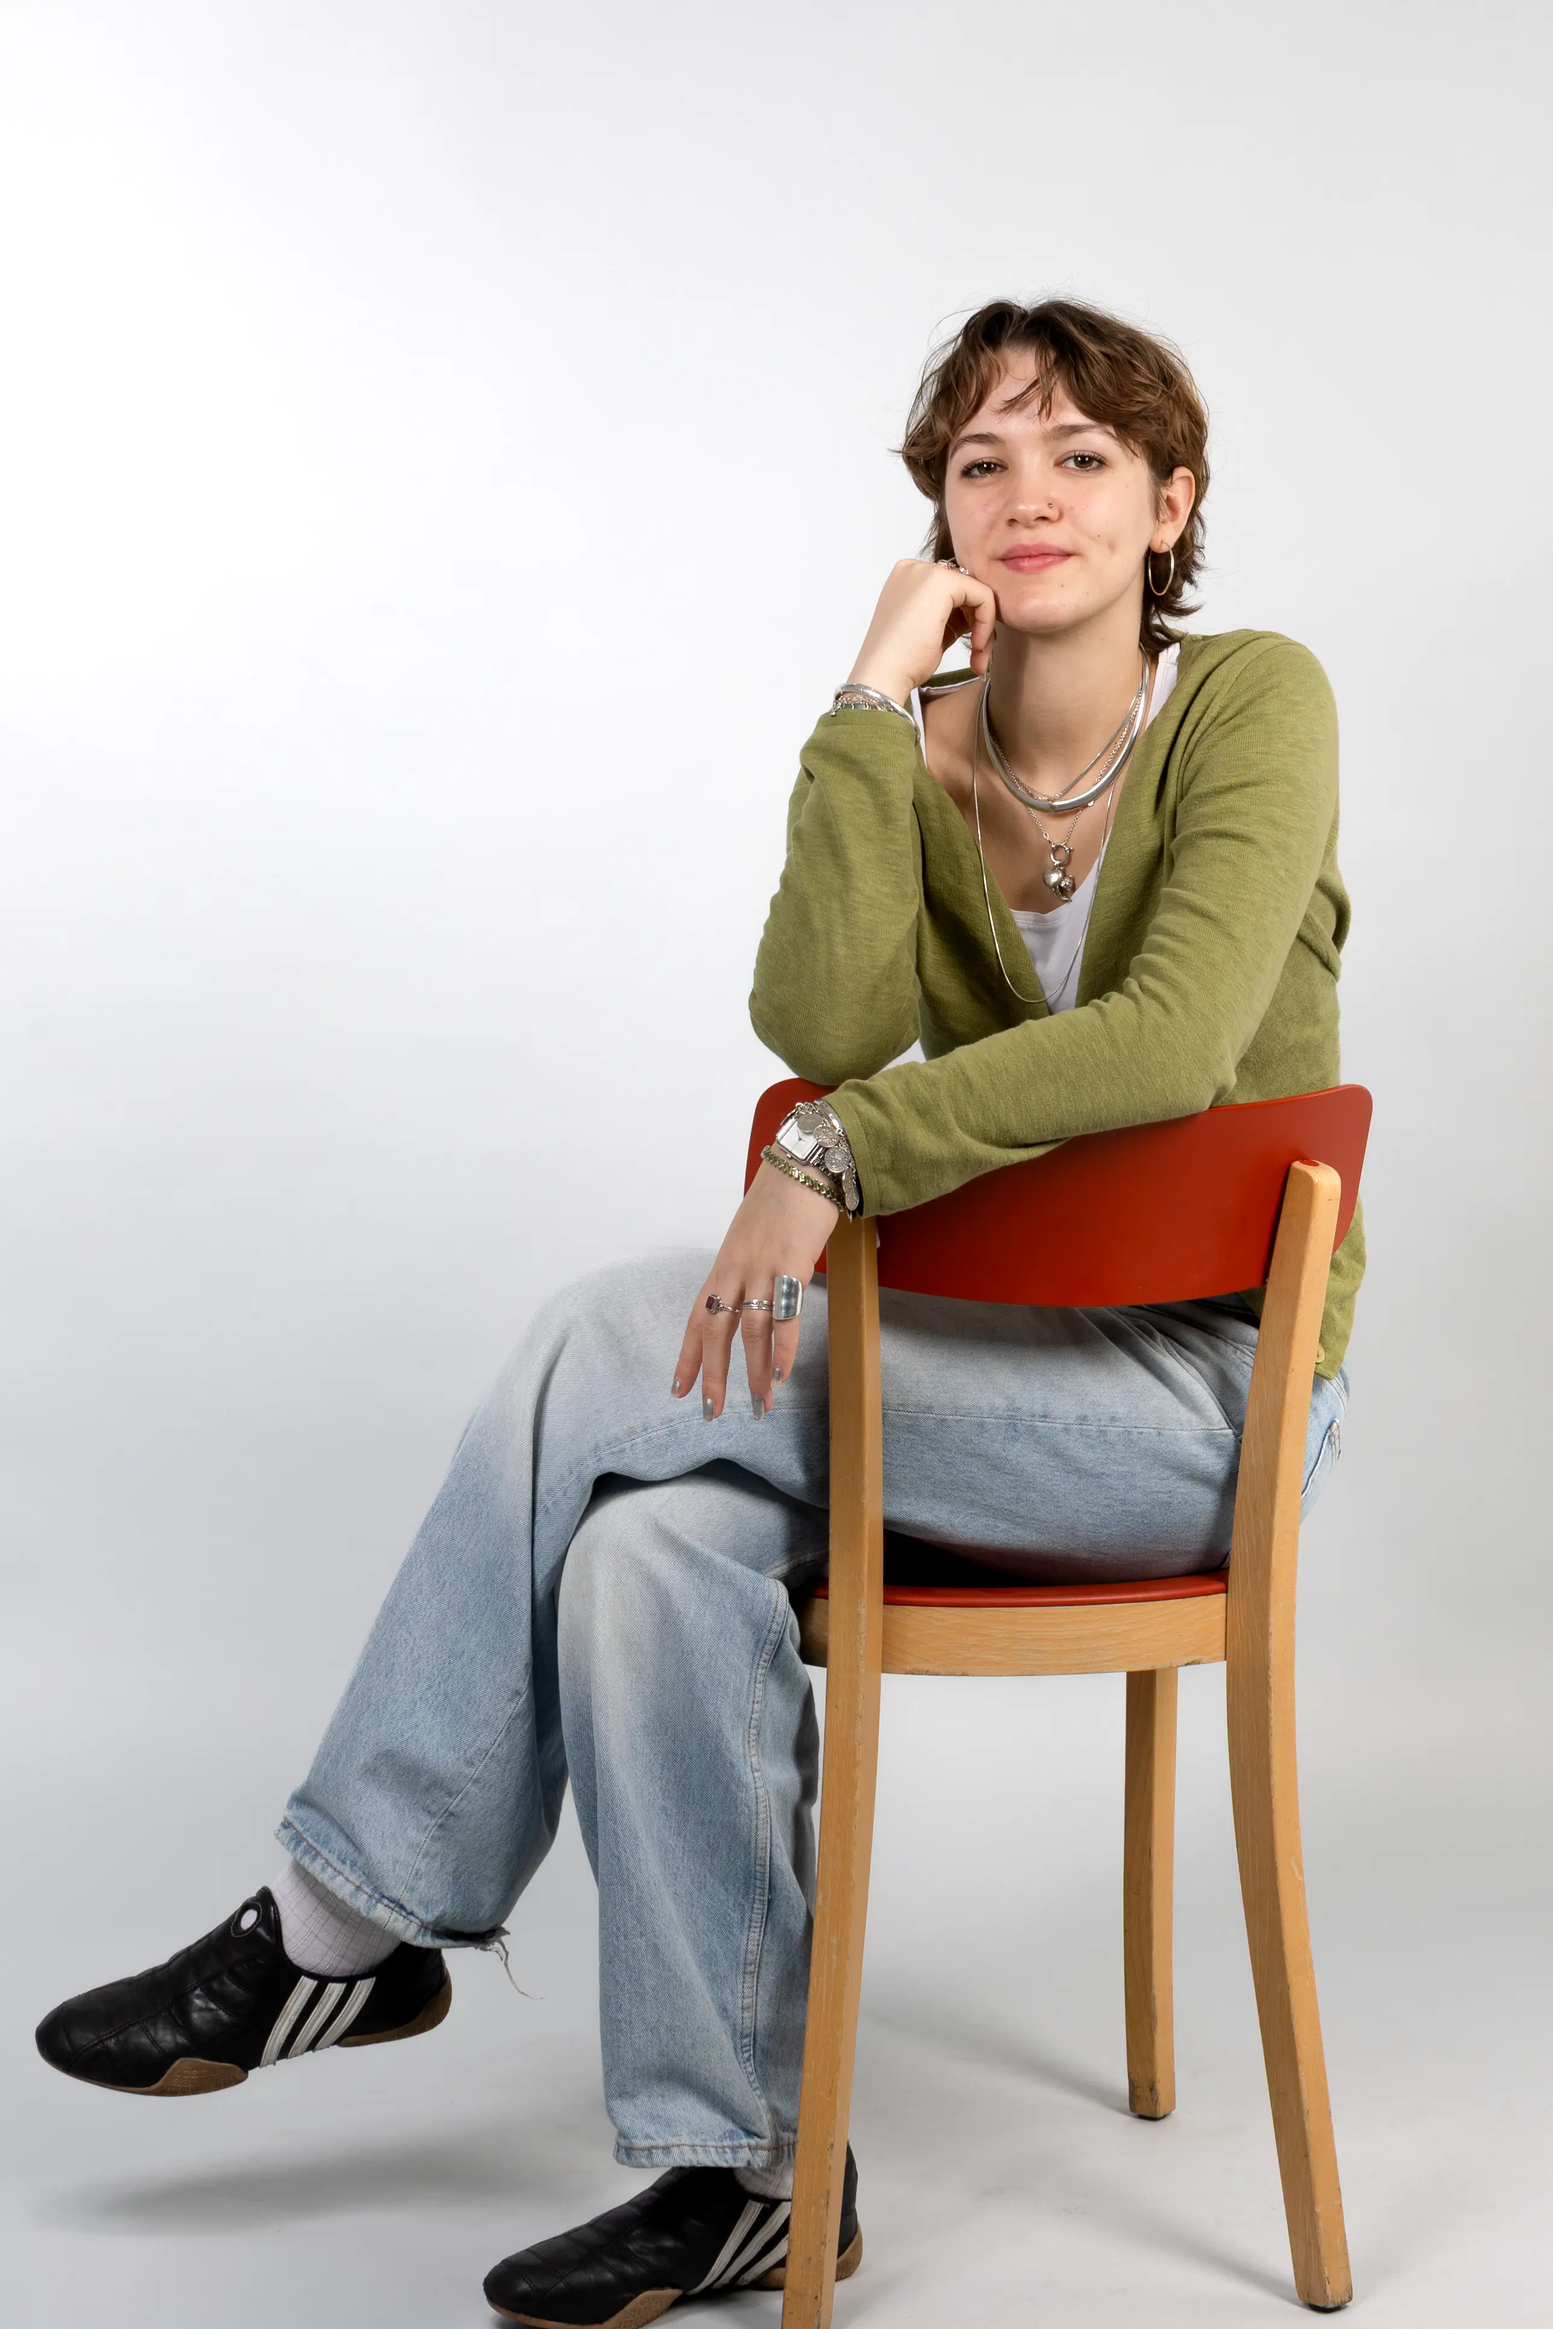
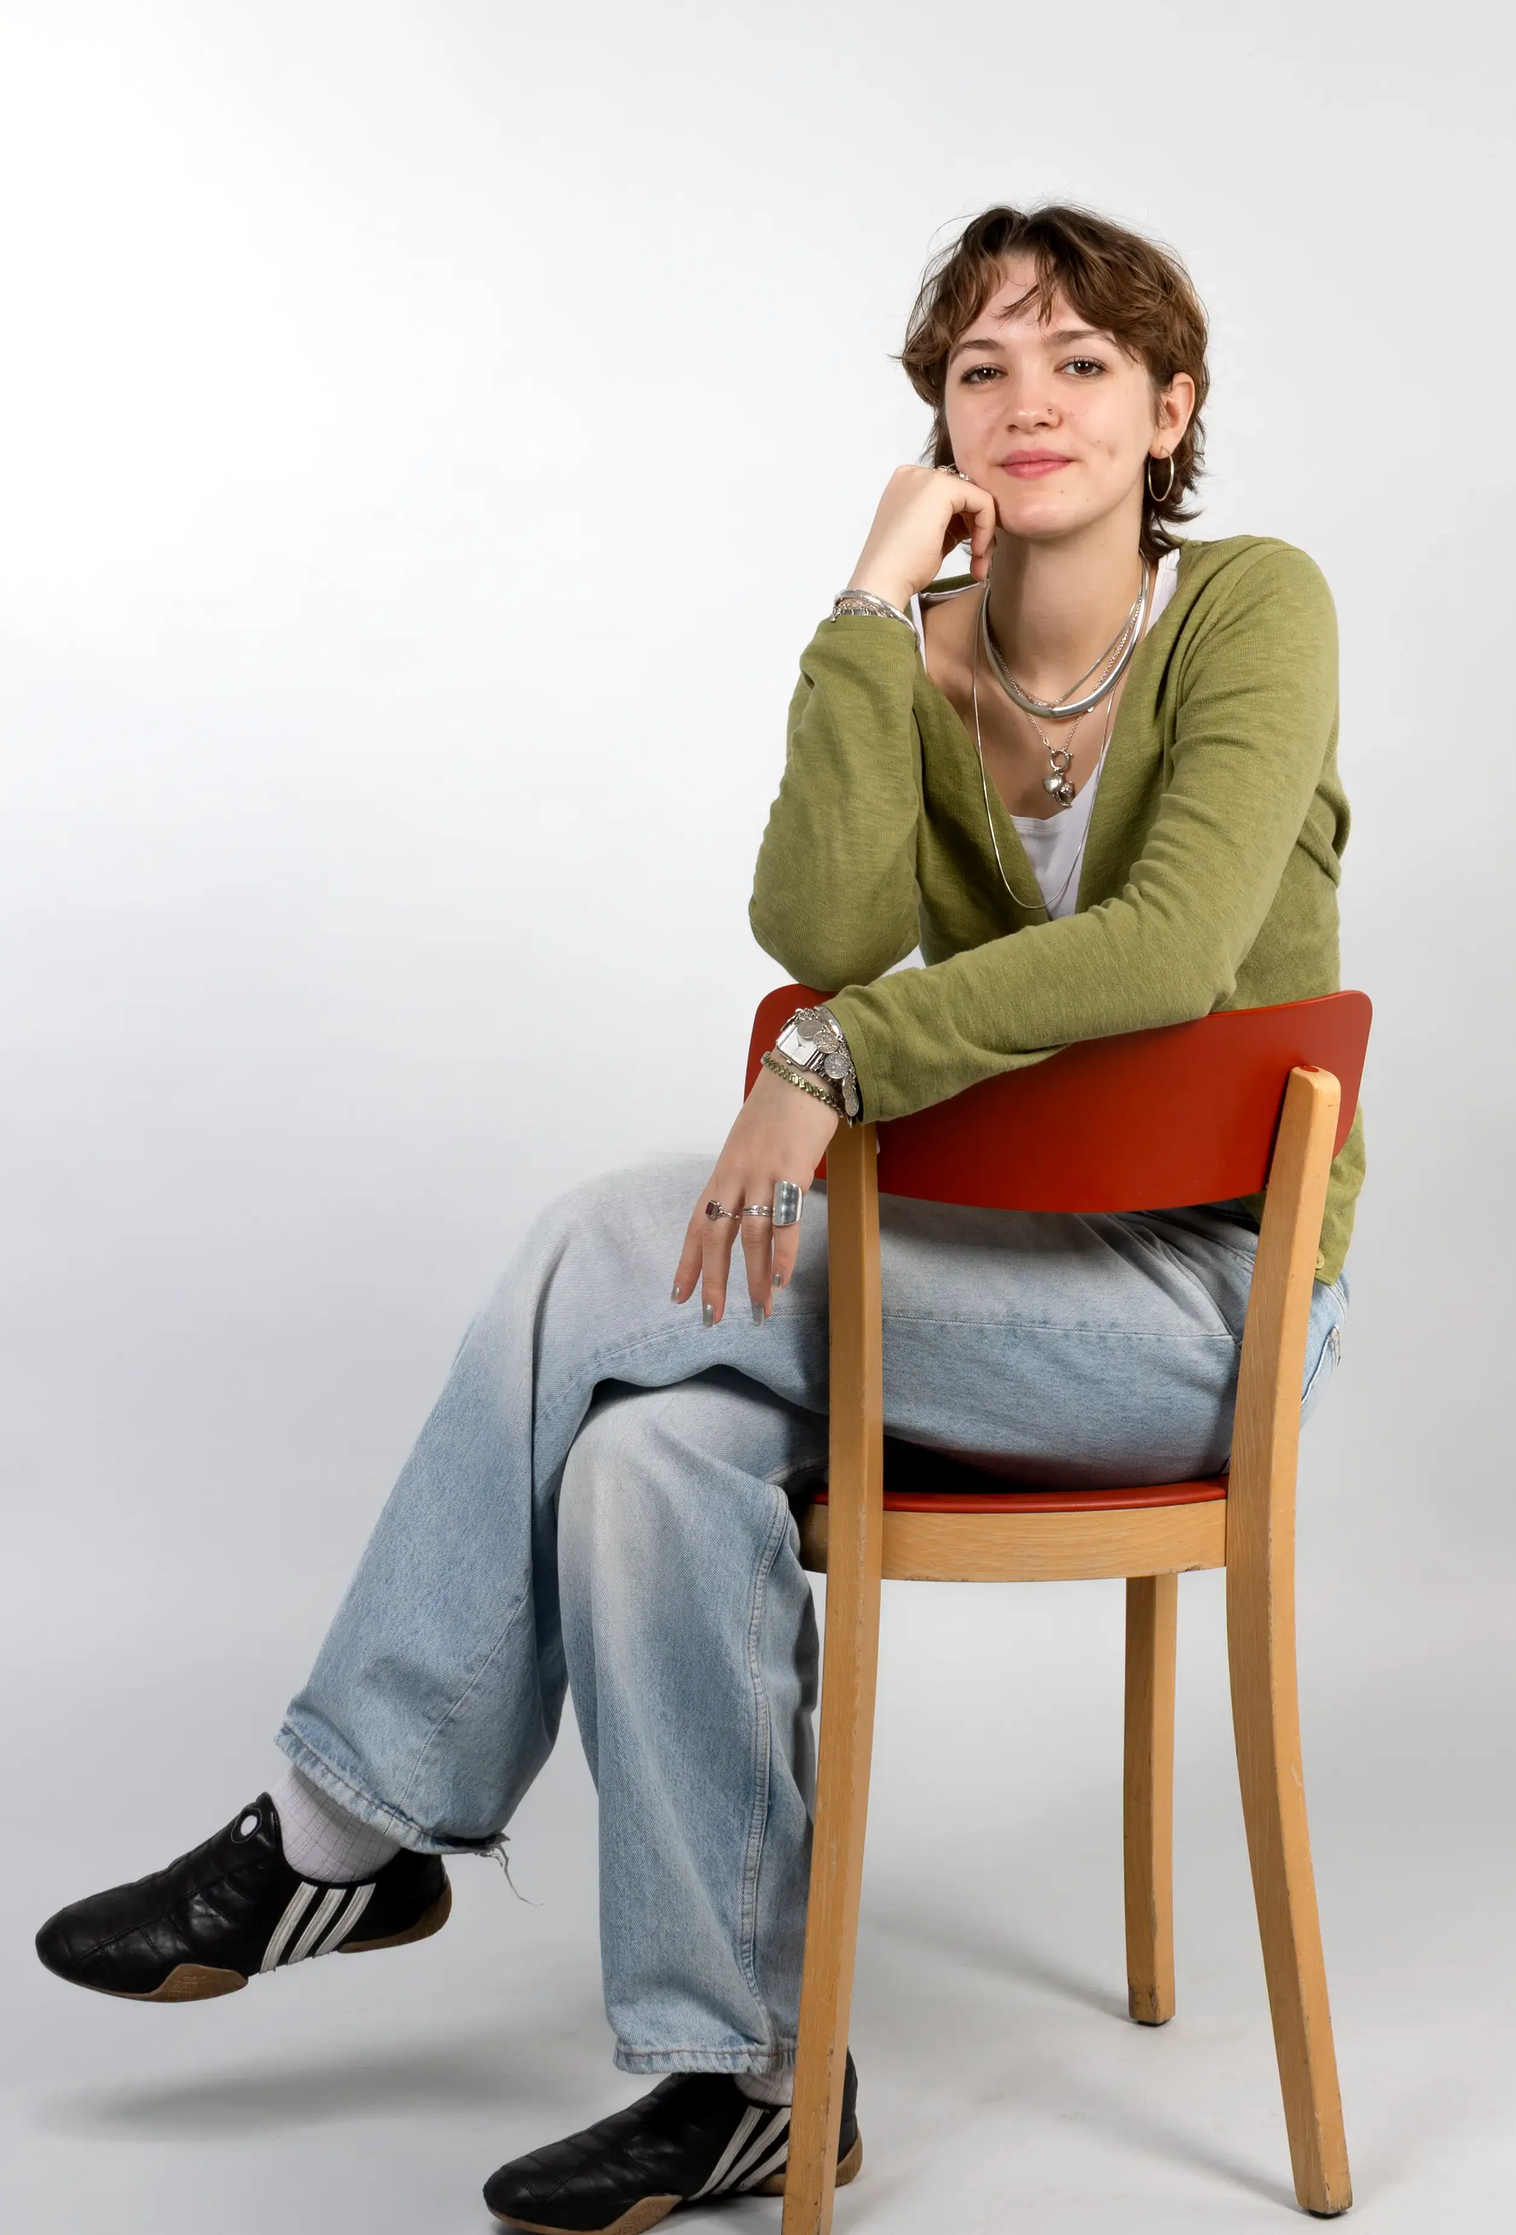
pfeile, -java!

Changed region(s): [[0.031, 0.0931, 0.9308, 1.0]]

diff --git a/MAK/MAK.html b/MAK/MAK.html
@@ -25,7 +25,7 @@
 
     <div class="projektraster">
       <div class="projektraster__introbild4">
-        <img src="IMG_0629.JPG" />
+        <img src="MAK-Mockup.webp" />
       </div>
 
       <div class="projektraster__MAK-titel1">
@@ -89,11 +89,11 @@
       </div>
 
       <a href="../Blickwechsel/Blickwechselplakat.html" class="nav-arrow left-arrow">
-        &lt;
+        <img src="../img2/pfeil1.png" alt="Zurück" class="arrow-image left-image">
       </a>
 
       <a href="../Motion-graphics/motion.html" class="nav-arrow right-arrow">
-        &gt;
+        <img src="../img2/pfeil2.png" alt="Weiter" class="arrow-image right-image">
       </a>
 
     </div>

diff --git a/css/style.css b/css/style.css
@@ -1414,17 +1414,16 @@ body {
 .nav-arrow {
     position: fixed;
     z-index: 50;
-    font-size: 2em;
     text-decoration: none;
-    color: #000000; 
     padding: 10px;
-    transition: color 0.2s; 
+    transition: opacity 0.2s; 
     top: 50%;
     transform: translateY(-50%);
+    /* Setzen Sie die Höhe/Breite des Links, wenn das Bild keine intrinsische Größe hat */
 }
 
 .nav-arrow:hover {
-    color: #000;
+    opacity: 0.7; 
 }
 
 .left-arrow {
@@ -1433,6 +1432,12 @@ body {
 
 .right-arrow {
     right: 10px; 
+}
+
+.arrow-image {
+    display: block; 
+    height: 22px; 
+    width: auto; 
 }
 
 /* =======================================

diff --git a/London/London.html b/London/London.html
@@ -129,11 +129,11 @@
       </div>
       
       <a href="../Fotografie/fotografie.html" class="nav-arrow left-arrow">
-        &lt;
+        <img src="../img2/pfeil1.png" alt="Zurück" class="arrow-image left-image">
       </a>
 
       <a href="../Postkarte/postkarten.html" class="nav-arrow right-arrow">
-        &gt;
+        <img src="../img2/pfeil2.png" alt="Weiter" class="arrow-image right-image">
       </a>
 
     </div>

diff --git a/Postkarte/postkarten.html b/Postkarte/postkarten.html
@@ -73,11 +73,11 @@
       </div>
 
       <a href="../London/London.html" class="nav-arrow left-arrow">
-        &lt;
+        <img src="../img2/pfeil1.png" alt="Zurück" class="arrow-image left-image">
       </a>
 
       <a href="../Blickwechsel/Blickwechselplakat.html" class="nav-arrow right-arrow">
-        &gt;
+        <img src="../img2/pfeil2.png" alt="Weiter" class="arrow-image right-image">
       </a>
     
       

diff --git a/Tech.Illu/illu.html b/Tech.Illu/illu.html
@@ -93,11 +93,11 @@
       </div>
 
       <a href="../Corperate Design/CPdesign.html" class="nav-arrow left-arrow">
-        &lt;
+        <img src="../img2/pfeil1.png" alt="Zurück" class="arrow-image left-image">
       </a>
 
       <a href="../Zitrone/Farbe.html" class="nav-arrow right-arrow">
-        &gt;
+        <img src="../img2/pfeil2.png" alt="Weiter" class="arrow-image right-image">
       </a>
 
     </div>

diff --git a/Corperate Design/CPdesign.html b/Corperate Design/CPdesign.html
@@ -81,11 +81,11 @@
       </div>
 
       <a href="../Motion-graphics/motion.html" class="nav-arrow left-arrow">
-        &lt;
+        <img src="../img2/pfeil1.png" alt="Zurück" class="arrow-image left-image">
       </a>
 
       <a href="../Tech.Illu/illu.html" class="nav-arrow right-arrow">
-        &gt;
+        <img src="../img2/pfeil2.png" alt="Weiter" class="arrow-image right-image">
       </a>
 
     </div>

diff --git a/Motion-graphics/motion.html b/Motion-graphics/motion.html
@@ -101,11 +101,11 @@
       </div>
 
       <a href="../MAK/MAK.html" class="nav-arrow left-arrow">
-        &lt;
+        <img src="../img2/pfeil1.png" alt="Zurück" class="arrow-image left-image">
       </a>
 
       <a href="../Corperate Design/CPdesign.html" class="nav-arrow right-arrow">
-        &gt;
+        <img src="../img2/pfeil2.png" alt="Weiter" class="arrow-image right-image">
       </a>
 
     </div>

diff --git a/Typo/typo.html b/Typo/typo.html
@@ -74,11 +74,11 @@
       </div>
 
       <a href="../Zitrone/Farbe.html" class="nav-arrow left-arrow">
-        &lt;
+        <img src="../img2/pfeil1.png" alt="Zurück" class="arrow-image left-image">
       </a>
 
       <a href="../Fotografie/fotografie.html" class="nav-arrow right-arrow">
-        &gt;
+        <img src="../img2/pfeil2.png" alt="Weiter" class="arrow-image right-image">
       </a>
 
     </div>

diff --git a/Blickwechsel/Blickwechselplakat.html b/Blickwechsel/Blickwechselplakat.html
@@ -101,11 +101,11 @@
       </div>
 
       <a href="../Postkarte/postkarten.html" class="nav-arrow left-arrow">
-        &lt;
+        <img src="../img2/pfeil1.png" alt="Zurück" class="arrow-image left-image">
       </a>
 
       <a href="../MAK/MAK.html" class="nav-arrow right-arrow">
-        &gt;
+        <img src="../img2/pfeil2.png" alt="Weiter" class="arrow-image right-image">
       </a>
 
     

diff --git a/Zitrone/Farbe.html b/Zitrone/Farbe.html
@@ -67,11 +67,11 @@
       </div>
 
       <a href="../Tech.Illu/illu.html" class="nav-arrow left-arrow">
-        &lt;
+        <img src="../img2/pfeil1.png" alt="Zurück" class="arrow-image left-image">
       </a>
 
       <a href="../Typo/typo.html" class="nav-arrow right-arrow">
-        &gt;
+        <img src="../img2/pfeil2.png" alt="Weiter" class="arrow-image right-image">
       </a>
 
     </div>

diff --git a/Fotografie/fotografie.html b/Fotografie/fotografie.html
@@ -121,11 +121,11 @@
       </div>
 
       <a href="../Typo/typo.html" class="nav-arrow left-arrow">
-        &lt;
+        <img src="../img2/pfeil1.png" alt="Zurück" class="arrow-image left-image">
       </a>
 
       <a href="../London/London.html" class="nav-arrow right-arrow">
-        &gt;
+        <img src="../img2/pfeil2.png" alt="Weiter" class="arrow-image right-image">
       </a>
 
       

diff --git a/zuzu/aboutme.html b/zuzu/aboutme.html
@@ -42,7 +42,7 @@
       
 
       <div class="projektraster__me-bild1">
-        <img src="zuzu2 Kopie.webp" />
+        <img src="zuzu2.jpg" />
       </div>
 
       
